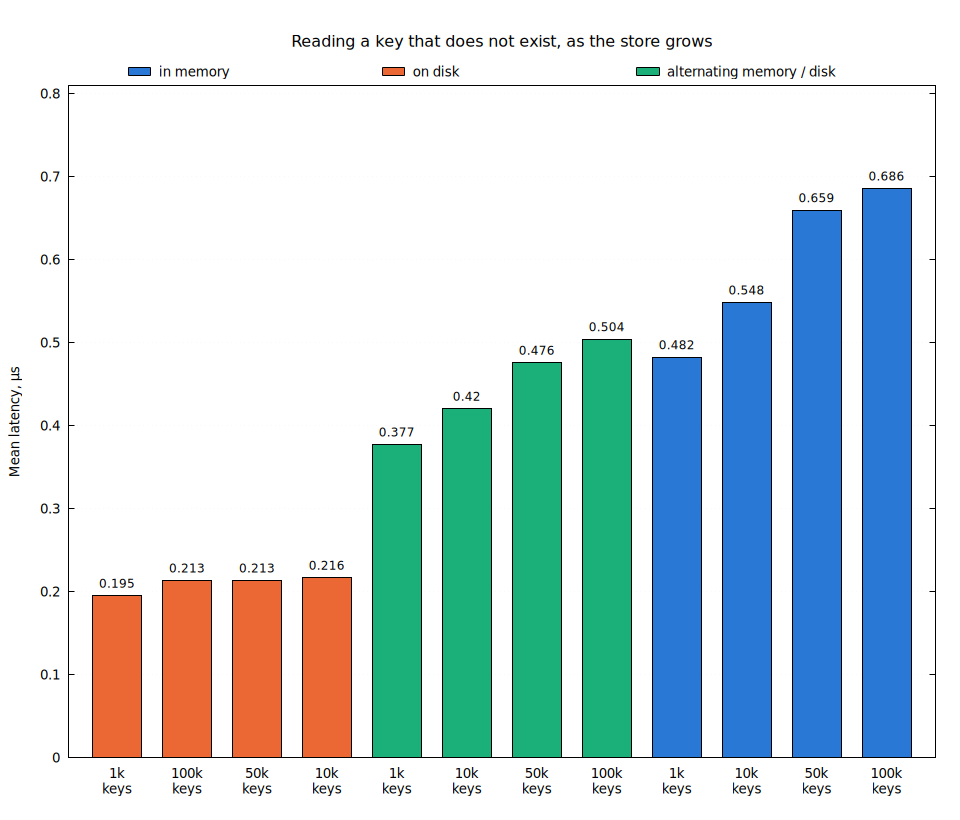
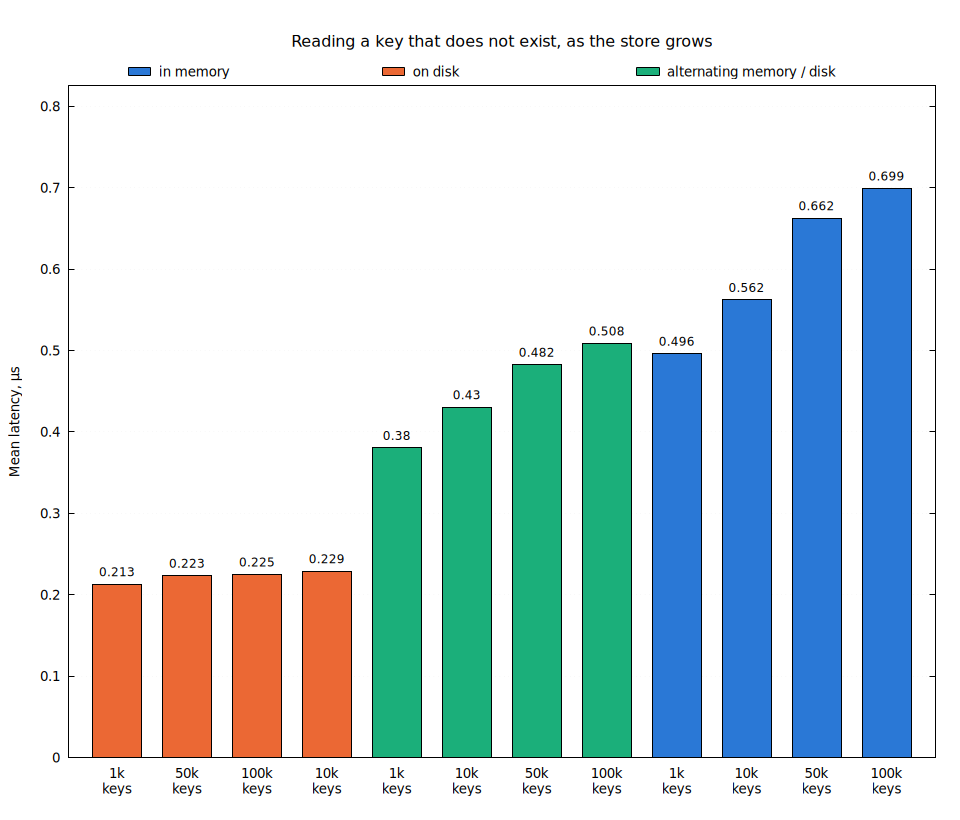
Re-measure the benchmark report at 0aeca7c
Full run_report.sh run: every figure and chart in benchmark.md refreshed.
Field-index queries now read file-backed indexes and are 8-20x faster
(equality 0.54 µs, range 144 µs). The unsynced WAL append measures 0.75 µs
on this kernel (reproduced in isolation), so the fsync ratio quoted in the
README becomes about 3,000x.

diff --git a/minnal_db/benchmark.md b/minnal_db/benchmark.md
@@ -13,15 +13,15 @@ to other hardware much better than the raw microseconds do.
 |---|---|---|
 | A durable write (`put`, `delete`, `merge`) | 2.3 ms, whatever the value size up to 64 KiB | [Writes](#writes) |
 | Reading one key from memory | 0.3–0.6 µs | [Reads](#reads) |
-| Reading one key from disk | 3.2–3.4 µs, barely growing with store size | [Reads](#reads) |
+| Reading one key from disk | 3.3–3.5 µs, barely growing with store size | [Reads](#reads) |
 | Scanning 1,000 keys with their values | 0.3–0.5 ms | [Scans](#scans) |
-| A field-index equality query over 100,000 rows | 11–33 µs | [Field-index queries](#field-index-queries) |
-| A field-index range query over 100,000 rows | 0.5–1.1 ms | [Field-index queries](#field-index-queries) |
-| A semantic search over 5,000 documents | 1.3–3.7 ms, excluding the embedding call | [Semantic search](#semantic-search) |
+| A field-index equality query over 100,000 rows | 0.5–2.4 µs | [Field-index queries](#field-index-queries) |
+| A field-index range query over 100,000 rows | 61–144 µs | [Field-index queries](#field-index-queries) |
+| A semantic search over 5,000 documents | 1.3–3.8 ms, excluding the embedding call | [Semantic search](#semantic-search) |
 
 The one number that shapes everything else: **a write costs 2.3 ms because it
 waits for the disk to confirm the data is safe** (an fsync). The WAL append
-itself, without the fsync, takes 0.4 µs. That is a deliberate choice — a write that
+itself, without the fsync, takes 0.7 µs. That is a deliberate choice — a write that
 returns has survived a power cut — and it caps the database at about 440 writes
 per second on this drive. Adding writer threads does not raise that ceiling,
 because writes fsync one at a time.
@@ -48,10 +48,10 @@ because writes fsync one at a time.
 | | |
 |---|---|
 | Machine | AMD Ryzen 9 9950X3D (16 cores), 96 GB RAM, NVMe SSD, bare metal |
-| OS | Ubuntu 26.04, Linux 7.0.0-34 |
+| OS | Ubuntu 26.04, Linux 7.0.0-38 |
 | Rust | 1.96.0 |
-| Code | commit `3bd0710`; the WAL suite with `benches/bench_wal.rs` as committed alongside this report |
-| Date | 2026-10-01 |
+| Code | commit `0aeca7c` |
+| Date | 2026-10-08 |
 
 To reproduce everything, including the charts:
 
@@ -84,36 +84,36 @@ a write's cost is the drive's fsync time, and value size hardly matters:
 ![Durable write latency by value size](docs/benchmarks/write.png)
 
 A 64 KiB value is 512 times the data of a 128-byte one and costs 3.2% more
-(2.359 ms against 2.286 ms).
+(2.354 ms against 2.282 ms).
 
 The chart below shows what the fsync costs on its own. It times a single WAL
 append with and without the sync. Synced, an append takes 2.3 ms. Without the
-sync it takes 0.39 µs — the fsync is about 6,000 times everything else the
-append does. Only in the unsynced case does value size show up at all: 0.39 µs
-at 128 bytes, 1.0 µs at 4 KiB, 7.8 µs at 64 KiB. Both cases append to a WAL
+sync it takes 0.75 µs — the fsync is about 3,000 times everything else the
+append does. Only in the unsynced case does value size show up at all: 0.75 µs
+at 128 bytes, 1.3 µs at 4 KiB, 8.5 µs at 64 KiB. Both cases append to a WAL
 file that already exists, as production does; creating the file is not timed.
 
 ![A WAL append with and without the fsync](docs/benchmarks/wal_fsync.png)
 
-*Log scale: the synced bars are 300 to 6,000 times taller than the unsynced
+*Log scale: the synced bars are 270 to 3,000 times taller than the unsynced
 ones. Production writes always sync; the unsynced case exists only to measure
 the rest of the path.*
 
 Other write-path measurements:
 
-- **The full `put`** (WAL, value log and memtable together) measures 2.292 ms.
+- **The full `put`** (WAL, value log and memtable together) measures 2.273 ms.
   That is within noise of the WAL append alone, so the value-log write and
   memtable insert are too small to see next to the fsync.
 - **Namespaces cost nothing.** Writing to the default namespace and to a named
-  one measure 2.27 and 2.30 ms, within noise.
+  one measure 2.26 and 2.31 ms, within noise.
 - **Mixed read/write workloads cost the same as pure writes.** With 80% or 50%
-  reads, from memory or from disk, every case lands between 2.25 and 2.30 ms per
+  reads, from memory or from disk, every case lands between 2.27 and 2.34 ms per
   operation. A read costs a few microseconds against a write's 2.3 ms, so the
   writes set the average.
-- **Encoding a WAL entry** takes 42 ns (128 B) to 1.1 µs (64 KiB), and decoding
-  it 14 ns to 0.54 µs.
-- **Replaying the WAL after a crash** reads about 3.9 million small entries per
-  second (1,000 entries of 128 bytes in 0.26 ms), and 2.7 million per second at
+- **Encoding a WAL entry** takes 43 ns (128 B) to 1.1 µs (64 KiB), and decoding
+  it 15 ns to 0.54 µs.
+- **Replaying the WAL after a crash** reads about 3.5 million small entries per
+  second (1,000 entries of 128 bytes in 0.29 ms), and 2.6 million per second at
   4 KiB.
 
 ### What `merge` costs over `put`
@@ -127,25 +127,25 @@ write latency:
 
 | Extra work `merge` does | Mean |
 |---|---:|
-| Reading the current value (a 2 KiB `get` from memory) | 433 ns |
-| Taking the per-key lock (hash plus uncontended lock) | 48 ns |
-| The closure: increment a counter | 9.9 ns |
-| The closure: insert into a 2 KiB sorted set | 175 ns |
+| Reading the current value (a 2 KiB `get` from memory) | 440 ns |
+| Taking the per-key lock (hash plus uncontended lock) | 51 ns |
+| The closure: increment a counter | 9.8 ns |
+| The closure: insert into a 2 KiB sorted set | 174 ns |
 
 That adds up to 0.5–0.7 µs, about 0.03% of the fsync. The full operations,
 measured directly, cannot tell merge and put apart:
 
 | Operation | Mean |
 |---|---:|
-| `put`, 2 KiB | 2.323 ms |
-| `delete`, 2 KiB | 2.294 ms |
-| `get` then `put` by hand, 2 KiB sorted set (no atomicity) | 2.286 ms |
-| `merge`, 2 KiB sorted set | 2.307 ms |
-| `put`, 8 B | 2.308 ms |
-| `merge`, 8 B counter | 2.278 ms |
+| `put`, 2 KiB | 2.285 ms |
+| `delete`, 2 KiB | 2.274 ms |
+| `get` then `put` by hand, 2 KiB sorted set (no atomicity) | 2.297 ms |
+| `merge`, 2 KiB sorted set | 2.284 ms |
+| `put`, 8 B | 2.276 ms |
+| `merge`, 8 B counter | 2.263 ms |
 
 In this table `merge` measures slightly *faster* than `put`, which cannot be
-real: a merge is a put plus extra work. That tells you the 2% spread between
+real: a merge is a put plus extra work. That tells you the 1.5% spread between
 these rows is noise, and it is why the extra work is timed separately above.
 The practical conclusion: the atomicity of `merge` is free. It stays as cheap as
 a `put` unless your closure does something expensive.
@@ -172,50 +172,50 @@ disk.
 
 ![Reading a key that exists, as the store grows](docs/benchmarks/lookup_hits.png)
 
-A read from disk barely slows as the store grows: 3.17 µs at 1,000 keys and
-3.36 µs at 100,000, 6% more for 100 times the keys. The on-disk lookup
+A read from disk barely slows as the store grows: 3.28 µs at 1,000 keys and
+3.48 µs at 100,000, 6% more for 100 times the keys. The on-disk lookup
 first rules files out by key range and bloom filter, then searches only a small
 bounded section of the file, so its work does not grow with file size. A read
-from memory rises 70% over the same range (0.35 to 0.59 µs), because the
+from memory rises 64% over the same range (0.38 to 0.61 µs), because the
 in-memory table is a skip list whose search deepens as it grows. Memory is
 still 6–9 times faster.
 
-The alternating workload costs 6–12% more than the average of the two tiers
-would predict, and the gap widens with store size. We have not measured why.
+The alternating workload costs 7–12% more than the average of the two tiers
+would predict, with no clear trend as the store grows. We have not measured why.
 The two tiers use different code paths, and switching between them on every call
 may cost cache locality.
 
 ![Reading a key that does not exist, as the store grows](docs/benchmarks/lookup_misses.png)
 
-For a missing key the order flips: **disk is 2.5 to 3.2 times faster than
+For a missing key the order flips: **disk is 2.3 to 3.1 times faster than
 memory**. On disk, a bloom filter usually proves a key is absent without reading
 anything else, so a miss stays at about 0.2 µs at any store size. The in-memory
 table has no such filter. To prove a key is absent it walks the skip list just as
 far as it would to find one. So an in-memory miss costs about what an in-memory
-hit does, and grows the same way (0.48 to 0.69 µs).
+hit does, and grows the same way (0.50 to 0.70 µs).
 
 ## Scans
 
 Four ways to read many keys at once, each measured in memory and on disk. On
-disk, a scan costs 1.1 to 1.7 times the in-memory scan. The ratio shrinks as
+disk, a scan costs 1.1 to 1.6 times the in-memory scan. The ratio shrinks as
 the result grows, because most of the on-disk extra is a fixed setup cost per
 scan.
 
 ![Prefix scan by number of matching keys](docs/benchmarks/scan_prefix.png)
 
 *Prefix scan: all keys starting with a given prefix, returned with their
-values. On disk costs 1.61x memory at 100 keys and 1.19x at 5,000. Keys are 128
-bytes here; 32-byte keys measure within 5% of these.*
+values. On disk costs 1.55x memory at 100 keys and 1.19x at 5,000. Keys are 128
+bytes here; 32-byte keys measure within 7% of these.*
 
 ![Range scan by number of results](docs/benchmarks/scan_range.png)
 
 *Range scan: all keys between a start and end key, from a store of 2,000. On
-disk costs 1.66x memory at 100 results and 1.35x at 1,000.*
+disk costs 1.61x memory at 100 results and 1.29x at 1,000.*
 
 ![Reading all keys with their values](docs/benchmarks/scan_iter.png)
 
-*Reading all 2,000 keys with their values. On disk costs 1.36x memory with
-128-byte values and 1.12x with 4 KiB values. The larger the values, the more of
+*Reading all 2,000 keys with their values. On disk costs 1.30x memory with
+128-byte values and 1.10x with 4 KiB values. The larger the values, the more of
 the time goes into reading them from the value log. That cost is the same on
 both tiers.*
 
@@ -225,7 +225,7 @@ both tiers.*
 256-byte values. This is how the REST API's list endpoints read.*
 
 Cursor pagination is the one scan where the tiers swap. At 100 keys per page,
-disk (72 µs) is almost twice as fast as memory (143 µs). At 500 per page they are close (267 µs on disk, 242 µs in memory), and at
+disk (75 µs) is almost twice as fast as memory (144 µs). At 500 per page they are close (268 µs on disk, 251 µs in memory), and at
 1,000 (the whole store) disk is slower, as expected. We have not established why
 small pages favour disk.
 
@@ -243,30 +243,30 @@ it adds nothing measurable:
 
 | Operation | Raw bytes | Typed |
 |---|---:|---:|
-| `put`, 128 B | 2.286 ms | 2.272 ms |
-| `put`, 4 KiB | 2.317 ms | 2.283 ms |
-| `get` from memory, 128 B | 0.37 µs | 0.32 µs |
-| `get` from disk, 128 B | 3.25 µs | 3.10 µs |
-| `get` from disk, 4 KiB | 3.42 µs | 3.39 µs |
+| `put`, 128 B | 2.282 ms | 2.283 ms |
+| `put`, 4 KiB | 2.283 ms | 2.312 ms |
+| `get` from memory, 128 B | 0.40 µs | 0.34 µs |
+| `get` from disk, 128 B | 3.31 µs | 3.20 µs |
+| `get` from disk, 4 KiB | 3.47 µs | 3.49 µs |
 
-The typed rows come out slightly faster than the raw ones. That is within the
-noise, not a real speed-up.
+The differences between the two columns, in either direction, are within the
+noise.
 
 Scans cost more typed, because every returned pair is deserialised:
 
 | Scan | Raw bytes | Typed | Extra |
 |---|---:|---:|---:|
-| range, 100 results, in memory | 52 µs | 56 µs | +7% |
-| range, 1,000 results, in memory | 338 µs | 364 µs | +8% |
-| range, 100 results, on disk | 86 µs | 86 µs | 0% |
-| range, 1,000 results, on disk | 457 µs | 458 µs | 0% |
-| prefix, 100 keys, in memory | 47 µs | 55 µs | +15% |
-| prefix, 1,000 keys, in memory | 301 µs | 369 µs | +23% |
-| prefix, 100 keys, on disk | 76 µs | 85 µs | +11% |
-| prefix, 1,000 keys, on disk | 382 µs | 440 µs | +15% |
+| range, 100 results, in memory | 53 µs | 57 µs | +8% |
+| range, 1,000 results, in memory | 357 µs | 383 µs | +7% |
+| range, 100 results, on disk | 86 µs | 88 µs | +2% |
+| range, 1,000 results, on disk | 459 µs | 469 µs | +2% |
+| prefix, 100 keys, in memory | 49 µs | 57 µs | +15% |
+| prefix, 1,000 keys, in memory | 292 µs | 365 µs | +25% |
+| prefix, 100 keys, on disk | 76 µs | 86 µs | +13% |
+| prefix, 1,000 keys, on disk | 384 µs | 462 µs | +21% |
 
 One typed operation is slow for a structural reason. `keys_typed`, which lists
-keys without values, takes about 250 µs even for 100 keys, in memory or on disk.
+keys without values, takes about 260 µs even for 100 keys, in memory or on disk.
 That is about four and a half times as long as reading the same 100 keys *with*
 their values (56 µs). Key listing goes through the same full-store merge that value-log
 garbage collection uses. Reading with values uses the faster range scan. Until
@@ -284,6 +284,10 @@ with three indexed fields:
 | `active` | boolean | true on 50% of rows |
 | `age` | integer | 18 to 80, spread evenly (63 distinct values) |
 
+The indexes are written to their files before any query runs, so the queries
+read the files, as they do in a running database: changes wait in memory only
+until the next index checkpoint, every 1.75 seconds by default.
+
 ![Field-index query latency by query](docs/benchmarks/predicate.png)
 
 *`status = a` is `status = 'active'`, and `active` is `active = true`.*
@@ -291,21 +295,21 @@ with three indexed fields:
 The cost depends on **how many bitmaps the query has to load**, not on how many
 rows it matches:
 
-- **An equality test loads one bitmap.** `status = 'active'` takes 11 µs.
-  Combining two equality tests with AND or OR takes 32–33 µs.
+- **An equality test loads one bitmap.** `status = 'active'` takes 0.54 µs.
+  Combining two equality tests with AND or OR takes 2.3–2.4 µs.
 - **A range loads one bitmap per distinct value in the range.** `age >= 50` covers
   31 ages, so it merges 31 bitmaps. `age >= 30 AND age <= 50` is evaluated as
   two ranges, one over 51 values and one over 33, and then intersected. At
-  1.1 ms it is the most expensive query here, about 100 times an equality test.
+  144 µs it is the most expensive query here, about 270 times an equality test.
 
 So adding a range to a query makes it slower even when it narrows the result:
-`status = 'active' AND active = true` matches 12% of rows in 32 µs, and adding
-`AND age >= 50` halves that to 6% but takes 459 µs. For a field queried by
+`status = 'active' AND active = true` matches 12% of rows in 2.3 µs, and adding
+`AND age >= 50` halves that to 6% but takes 61 µs. For a field queried by
 range, fewer distinct values (bucketing ages into decades, say) make the query
 cheaper.
 
-Parsing the query text is negligible. A three-condition query takes 730 µs
-parsed from text and 725 µs pre-parsed.
+Parsing the query text is negligible. A three-condition query takes 87 µs
+parsed from text and 85 µs pre-parsed.
 
 ## Paging through query results
 
@@ -319,17 +323,17 @@ result of 200,000:
 
 | Page starts at row | Stepping through rows | Skipping containers (used) |
 |---|---:|---:|
-| 0 | 77 µs | 0.45 µs |
-| 1,000 | 78 µs | 0.82 µs |
-| 50,000 | 80 µs | 17.5 µs |
-| 199,000 | 242 µs | 0.35 µs |
+| 0 | 69 µs | 0.32 µs |
+| 1,000 | 67 µs | 0.67 µs |
+| 50,000 | 71 µs | 17.9 µs |
+| 199,000 | 217 µs | 0.24 µs |
 
 Container skipping still steps through the rows *inside* the container where the
 page starts. Row 50,000 is 50,000 rows into its container, which is why that page
 costs more than the others.
 
 Paging through a whole 20,000-row result, 200 rows at a time (100 pages), takes
-0.47 ms with container skipping and 2.46 ms by stepping through rows, which
+0.45 ms with container skipping and 2.18 ms by stepping through rows, which
 starts again from the first row on every page.
 
 ## Semantic search
@@ -347,7 +351,7 @@ shaped like production's: one vector for the whole query.
 
 A document is split into overlapping chunks, and Pass 1 scores every chunk in
 the clusters it probes. So search time grows with chunks per document: 1.3 ms
-with one chunk, 2.1 ms with four, 3.7 ms with eight. Pass 2 re-scores a fixed
+with one chunk, 2.0 ms with four, 3.8 ms with eight. Pass 2 re-scores a fixed
 number of candidates, so its cost does not grow.
 
 How these numbers relate to a real query:
@@ -357,7 +361,7 @@ How these numbers relate to a real query:
   everything measured here. Repeated queries are served from a cache.
 - **Multi-vector queries cost more.** `search()` also accepts several query
   vectors (production sends one). At one chunk per document, a 1-vector query
-  takes 1.29 ms, 4 vectors 1.85 ms and 40 vectors 3.3 ms.
+  takes 1.29 ms, 4 vectors 1.89 ms and 40 vectors 3.3 ms.
 - **Real data is clumpier.** Synthetic vectors spread evenly across clusters.
   Real embeddings pile into a few, and a query probing those clusters scans far
   more chunks. Latency on real data depends mostly on how many chunks the probed
@@ -376,13 +380,13 @@ single-writer throughput. This run agrees:
 
 | Operation | README ballpark | Measured here |
 |---|---|---|
-| Write, small values | 400–500 ops/s | 437 ops/s |
-| `merge`, small values | 400–500 ops/s | 439 ops/s |
-| Read from memory | 1M–2.5M ops/s | 2.7M ops/s (slightly above) |
-| Read from disk | 100k–300k ops/s | 308k ops/s (slightly above) |
+| Write, small values | 400–500 ops/s | 438 ops/s |
+| `merge`, small values | 400–500 ops/s | 442 ops/s |
+| Read from memory | 1M–2.5M ops/s | 2.5M ops/s |
+| Read from disk | 100k–300k ops/s | 302k ops/s (at the top end) |
 
 Two separate benchmarks measure a small-value read from disk, with different
-setups, and agree within 3% (308k and 316k reads per second).
+setups, and agree within 1% (302k and 305k reads per second).
 
 The write figure is the fsync limit, and no setting raises it: the WAL is
 always fsynced per write, and only the value log's sync cadence is configurable.

diff --git a/minnal_db/README.md b/minnal_db/README.md
@@ -632,7 +632,7 @@ These are ballpark figures; treat them as orders of magnitude rather than guaran
 | `get` from disk (L1 SSTable) | 100k–300k ops/s per thread |
 | Range / prefix scan | Proportional to the number of results |
 
-Actual numbers depend mostly on value size and the drive's fsync latency. [`benchmark.md`](benchmark.md) measures every figure above, with the hardware it ran on. Be suspicious of any write figure measured without the fsync: the same WAL append runs about 1,500 times faster with the sync left out, so it is easy to publish a write throughput that quietly assumes it away.
+Actual numbers depend mostly on value size and the drive's fsync latency. [`benchmark.md`](benchmark.md) measures every figure above, with the hardware it ran on. Be suspicious of any write figure measured without the fsync: the same WAL append runs about 3,000 times faster with the sync left out, so it is easy to publish a write throughput that quietly assumes it away.
 
 **Every durable write costs one fsync, and nothing else it does is measurable next to that.** `put`, `delete`, `merge`, and a typed write all land within 2.8% of each other on the same hardware — closer together than the run-to-run noise on any one of them — so the way to reason about write throughput is to count fsyncs, not operations. `merge`'s guarantee (an atomic read-modify-write under a per-key lock) is therefore effectively free: the hand-rolled `get`-then-`put` a caller would write instead measures no faster. See [`benchmark.md`](benchmark.md#what-merge-costs-over-put) for the decomposition.
 
